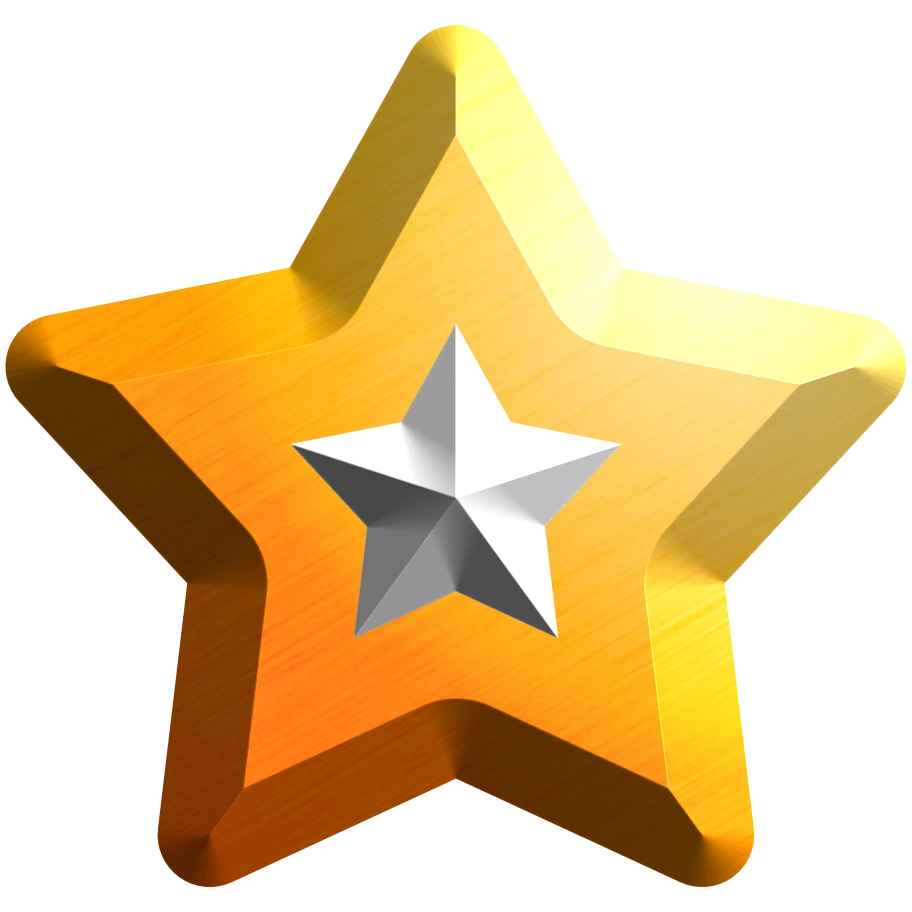
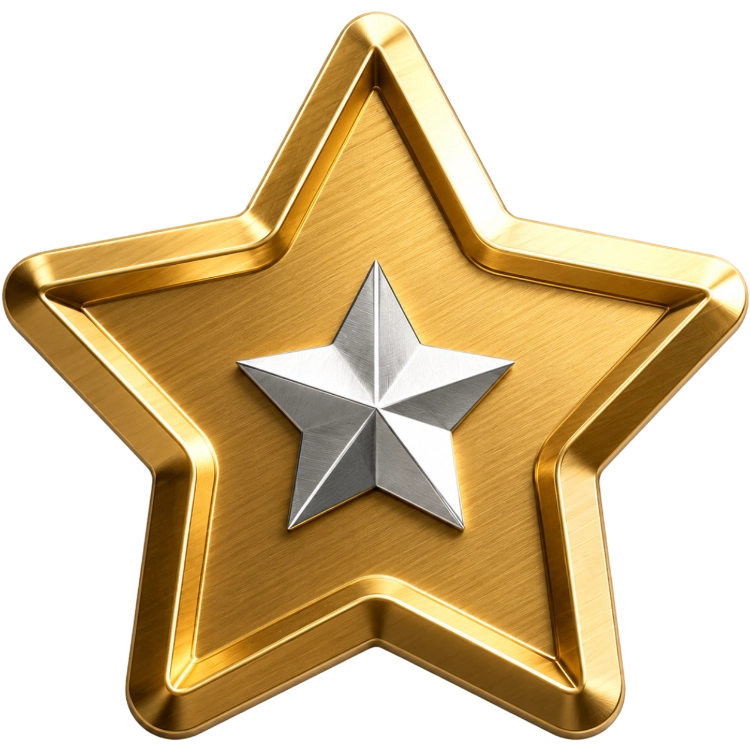
Add public inventory pagination and item tooltips
Adds full public profile inventory browsing with compact pagination, aligns wallet and inventory row heights, and makes wallet/inventory assets interactive with polished item information popovers. Extends the authoritative asset metadata contract and Admin Dashboard asset editor only where needed so public-safe item descriptions, icons, rarity/type, values, and contextual tooltip details can be managed and consumed safely.

diff --git a/docs/js/economy.js b/docs/js/economy.js
@@ -238,7 +238,7 @@
   }
 
   function updateItemCreateFieldErrors(errors = state.itemCreateErrors) {
-    const fields = ["label", "item_name", "category", "item_code", "rarity", "reason_text", "reason"];
+    const fields = ["label", "item_name", "category", "item_code", "rarity", "short_description", "tooltip_description", "reason_text", "reason"];
     fields.forEach((field) => {
       const target = $(`economy-item-create-error-${field}`);
       if (target) target.textContent = fieldErrorText(errors, field);
@@ -1082,7 +1082,11 @@
     const itemsMarkup = pageInfo.items
       .map((item) => {
         const metadata = item.metadata && typeof item.metadata === "object" ? item.metadata : {};
-        const notes = text(metadata.notes || metadata.admin_notes || metadata.description || "");
+        const notes = text(metadata.notes || metadata.admin_notes || "");
+        const shortDescription = text(item.short_description || metadata.short_description || metadata.public_short_description || "");
+        const tooltipDescription = text(item.tooltip_description || item.long_description || metadata.tooltip_description || metadata.public_description || metadata.public_details || "");
+        const contextualPublicNote = text(item.contextual_public_note || metadata.contextual_public_note || metadata.public_note || "");
+        const publicTooltipEnabled = item.public_tooltip_enabled !== false && metadata.public_tooltip_enabled !== false;
         const systemType = text(metadata.system_asset_type || metadata.denomination_code || "");
         const assetChip = systemType
           ? (metadata.wallet_balance_unit ? "Currency unit" : "Denomination")
@@ -1098,7 +1102,7 @@
                 <span class="muted">item_code: ${escapeHtml(item.item_code)} · ${escapeHtml(item.category || "Uncategorized")} · ${escapeHtml(item.rarity || "No rarity")} · ${item.is_enabled === false ? "disabled" : "enabled"}</span>
                 <span class="ss-economy-item-chip">${escapeHtml(assetChip)}</span>
                 <span class="muted ss-economy-item-path">${escapeHtml(normalizedIcon || "No icon configured")}</span>
-                ${notes ? `<span class="muted ss-economy-item-notes">${escapeHtml(notes)}</span>` : ""}
+                ${shortDescription ? `<span class="muted ss-economy-item-notes">${escapeHtml(shortDescription)}</span>` : notes ? `<span class="muted ss-economy-item-notes">${escapeHtml(notes)}</span>` : ""}
               </div>
               <button class="ss-btn ss-btn-secondary ss-economy-item-edit" type="button" data-item-code="${escapeHtml(item.item_code)}">${isEditing ? "Close" : "Edit"}</button>
             </div>
@@ -1118,11 +1122,15 @@
                       <label>Category<select data-item-field="category">${itemCategoryOptions(item.category || "")}</select></label>
                       <label>Rarity<select data-item-field="rarity">${presetOptions(state.rarityPresets, item.rarity || "")}</select></label>
                       <label>Enabled<select data-item-field="is_enabled"><option value="true" ${item.is_enabled === false ? "" : "selected"}>Enabled</option><option value="false" ${item.is_enabled === false ? "selected" : ""}>Disabled</option></select></label>
+                      <label>Public tooltip<select data-item-field="public_tooltip_enabled"><option value="true" ${publicTooltipEnabled ? "selected" : ""}>Enabled</option><option value="false" ${publicTooltipEnabled ? "" : "selected"}>Disabled</option></select></label>
                     </section>
                     <section class="ss-economy-item-editor-card ss-economy-icon-card">
                       ${renderIconPathControl({ itemCode: item.item_code, value: normalizedIcon })}
                     </section>
                     <section class="ss-economy-item-editor-card">
+                      <label class="ss-economy-wide">Short public description<textarea data-item-field="short_description" rows="2">${escapeHtml(shortDescription)}</textarea></label>
+                      <label class="ss-economy-wide">Tooltip public details<textarea data-item-field="tooltip_description" rows="3">${escapeHtml(tooltipDescription)}</textarea></label>
+                      <label class="ss-economy-wide">Contextual public note<input data-item-field="contextual_public_note" value="${escapeHtml(contextualPublicNote)}" placeholder="Optional scope, source, or usage context" /></label>
                       <label class="ss-economy-wide">Metadata notes<textarea data-item-field="metadata_notes" rows="3">${escapeHtml(notes)}</textarea></label>
                       <label class="ss-economy-wide">Reason<input data-item-field="reason_text" placeholder="Required before save" /></label>
                       <button class="ss-btn ss-economy-item-save" type="button" data-item-code="${escapeHtml(item.item_code)}">Save metadata</button>
@@ -1158,6 +1166,7 @@
             <label>Category<select id="economy-item-create-category">${itemCategoryOptions()}</select><span id="economy-item-create-error-category" class="ss-field-error">${escapeHtml(fieldErrorText(state.itemCreateErrors, "category"))}</span></label>
             <label>Rarity<select id="economy-item-create-rarity">${presetOptions(state.rarityPresets)}</select><span id="economy-item-create-error-rarity" class="ss-field-error">${escapeHtml(fieldErrorText(state.itemCreateErrors, "rarity"))}</span></label>
             <label>Enabled<select id="economy-item-create-enabled"><option value="true">Enabled</option><option value="false">Disabled</option></select></label>
+            <label>Public tooltip<select id="economy-item-create-public-tooltip"><option value="true">Enabled</option><option value="false">Disabled</option></select></label>
           </section>
           <section class="ss-economy-item-create-card ss-economy-item-create-card--code">
             <span class="ss-subtitle">Generated item code</span>
@@ -1170,6 +1179,9 @@
             ${renderIconPathControl({ create: true })}
           </section>
           <section class="ss-economy-item-create-card ss-economy-item-create-card--notes">
+            <label class="ss-economy-wide">Short public description<textarea id="economy-item-create-short-description" rows="2"></textarea><span id="economy-item-create-error-short_description" class="ss-field-error">${escapeHtml(fieldErrorText(state.itemCreateErrors, "short_description"))}</span></label>
+            <label class="ss-economy-wide">Tooltip public details<textarea id="economy-item-create-tooltip-description" rows="3"></textarea><span id="economy-item-create-error-tooltip_description" class="ss-field-error">${escapeHtml(fieldErrorText(state.itemCreateErrors, "tooltip_description"))}</span></label>
+            <label class="ss-economy-wide">Contextual public note<input id="economy-item-create-contextual-note" type="text" placeholder="Optional public-safe context" /></label>
             <label class="ss-economy-wide">Metadata notes<textarea id="economy-item-create-notes" rows="3"></textarea></label>
             <label class="ss-economy-wide">Reason<input id="economy-item-create-reason" type="text" placeholder="Required creation note" /><span id="economy-item-create-error-reason_text" class="ss-field-error">${escapeHtml(fieldErrorText(state.itemCreateErrors, "reason_text"))}</span></label>
           </section>
@@ -1545,8 +1557,16 @@
         icon_path: normalizeItemIconPath(readField("icon_path")),
         rarity: readField("rarity"),
         is_enabled: readField("is_enabled") !== "false",
+        public_tooltip_enabled: readField("public_tooltip_enabled") !== "false",
+        short_description: readField("short_description"),
+        tooltip_description: readField("tooltip_description"),
+        contextual_public_note: readField("contextual_public_note"),
         metadata: {
-          notes: readField("metadata_notes")
+          notes: readField("metadata_notes"),
+          public_tooltip_enabled: readField("public_tooltip_enabled") !== "false",
+          short_description: readField("short_description"),
+          tooltip_description: readField("tooltip_description"),
+          contextual_public_note: readField("contextual_public_note")
         },
         reason_text: reason
       })
@@ -1624,7 +1644,17 @@
             rarity: text($("#economy-item-create-rarity")?.value),
             icon_path: normalizeItemIconPath($("#economy-item-create-icon")?.value),
             is_enabled: text($("#economy-item-create-enabled")?.value) !== "false",
-            metadata: { notes: text($("#economy-item-create-notes")?.value) }
+            public_tooltip_enabled: text($("#economy-item-create-public-tooltip")?.value) !== "false",
+            short_description: text($("#economy-item-create-short-description")?.value),
+            tooltip_description: text($("#economy-item-create-tooltip-description")?.value),
+            contextual_public_note: text($("#economy-item-create-contextual-note")?.value),
+            metadata: {
+              notes: text($("#economy-item-create-notes")?.value),
+              public_tooltip_enabled: text($("#economy-item-create-public-tooltip")?.value) !== "false",
+              short_description: text($("#economy-item-create-short-description")?.value),
+              tooltip_description: text($("#economy-item-create-tooltip-description")?.value),
+              contextual_public_note: text($("#economy-item-create-contextual-note")?.value)
+            }
           },
           reason_text: reason
         })

diff --git a/BUMP_NOTES.md b/BUMP_NOTES.md
@@ -2,6 +2,9 @@
 
 ## CURRENT VER= 0.4.2-alpha / PENDING VER= 0.4.3-alpha
 
+- Extended the Admin `/economy` item definition editor with compact public-safe metadata fields. Existing create/edit flows now include short public description, tooltip/public details, contextual public note, and public tooltip enablement fields, and save them through the existing Runtime/Auth `/api/admin/inventory/items` endpoints without changing item code generation, reason-code requirements, or Dashboard authority boundaries.
+- Human note: admins can now author the copy that Public wallet/inventory popovers display, while optional fields can stay blank and missing metadata remains safe on Public profiles.
+
 - Fixed the Admin `/economy` new inventory item form binding, item-code preview, asset picker selection, picker search focus, and denomination icon editor layout. The DOM helper now resolves both raw ids and `#id` strings so the visible item name/category/reason/icon fields are read consistently, the create payload still sends canonical `reason_text`, `Use selected asset` updates the correct picker target, search focus/selection is restored across asset-result re-renders, and denomination icon edit controls wrap/truncate without overlapping.
 - Human note: admins should be able to type an item name/category and see the generated code, choose an asset into the new item icon field, type continuously in asset search, submit with a visible reason, and edit denomination icons without cramped overlapping controls.
 